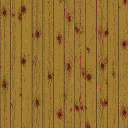
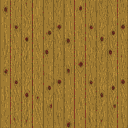
Interiery etapa 3: zbozi v regalech Jednoty a skladu (konzervy, sklenice, piti, pecivo z Groka, orezane a opakovane podle pomeru), klidnejsi palubky, trafostanice ma vlastni mistnost s agregatem a opravou na R; AGENTS: Blender a interior kit; TODO

diff --git a/AGENTS.md b/AGENTS.md
@@ -202,6 +202,25 @@ it from `_activate_runtime_enemy_for_night`). Add a row to DESIGN.md §5 and to
   box-downsamples, snaps to the game palette) or `texture <size> <dest>`.
   For sprites ask for a flat pure magenta `#FF00FF` background and pass an existing sprite
   as reference so pixel scale and palette match.
+- **Batches**: `tools/artgen/batch.sh <id>...` (textures, 128 px) and
+  `tools/artgen/batch_panels.sh <width> <id>...` (posters, views) generate and process one
+  after another; never start a second batch while one runs. `crop_goods.py` crops the
+  shop-goods renders (Grok puts the row at the bottom of a dark canvas).
+- **Interior props (Blender)**: `tools/blender/build_props.py` (+ `props_more.py`, kit in
+  `propkit.py`) builds every low-poly prop from parts and exports
+  `godot/assets/models/interior/<name>.glb` **without images** plus `materials.json`
+  (material name -> camp texture + tint). Run headless:
+  `"C:/Program Files/Blender Foundation/Blender 5.2/blender.exe" --background --factory-startup --python tools/blender/build_props.py [-- name ...]`,
+  then `godot --headless --path godot --import`. `preview_props.py -- out.png` renders them all.
+  Conventions: metres, origin on the floor at the footprint centre, front towards Blender
+  -Y (Godot +Z). Wall-mounted props: mind that the origin is the footprint centre.
+  The user's Blender (with the MCP addon on :9876) may have another project open: do not
+  touch it, work headless.
+- **Interior kit** (`godot/scripts/interior_kit.gd`): `surface(tex, metres)` = a camp
+  texture mapped in world space (Build-style, seamless, nearest); `room()`, `slab()`,
+  `skirting()`, `picture()` and `prop()` (instances a .glb and puts the shared camp
+  materials back by name). New interior work uses it instead of `texture_style` (the old
+  colour-matched rips are left only on the cellar machine animation and a few small bits).
 - **Fonts**: `python tools/gen_pixel_fonts.py` bakes `tools/font_src/*.ttf` into
   `godot/assets/fonts/*.fnt/.png` on their native grid. Import setting `scaling_mode=1`.
 - **Synth SFX**: `python tools/gen_sfx.py` (shutter, flash whine, static/hum loops, thump).

diff --git a/TODO.md b/TODO.md
@@ -106,7 +106,7 @@ Tools: Grok Imagine (Cursor CLI) for textures, ElevenLabs for sound (key in
 ### 10. Interiors
 - [x] Restricted mouse look-around, hover highlight, hold LMB with a progress ring, sounds
 - [x] Room switching by keys (cabin bathroom); bathroom upkeep task
-- [ ] Visual finish: real models (bed, toilet, sink, table), camp textures on walls/floors
+- [x] Visual finish: real models (bed, toilet, sink, table), camp textures on walls/floors (interior_kit + tools/blender, 42 props)
 
 ### 11. More interiors
 - [x] Cabins: room, bed, bathroom/WC, cleaning, prep
@@ -116,7 +116,7 @@ Tools: Grok Imagine (Cursor CLI) for textures, ElevenLabs for sound (key in
 
 ### 12. 3D models and the camp's look
 - [x] New gatehouse (generated textures)
-- [ ] Remodel cabins, tents, restaurant/pub, toilets/showers, reception; reuse the existing
+- [x] Remodel cabins, tents, restaurant/pub, toilets/showers, reception; reuse the existing
       atmospheric textures first, generate missing ones in the same style (Grok)
 - [ ] Visible paths out of the camp where guests leave (forest trails, lake path)
 
